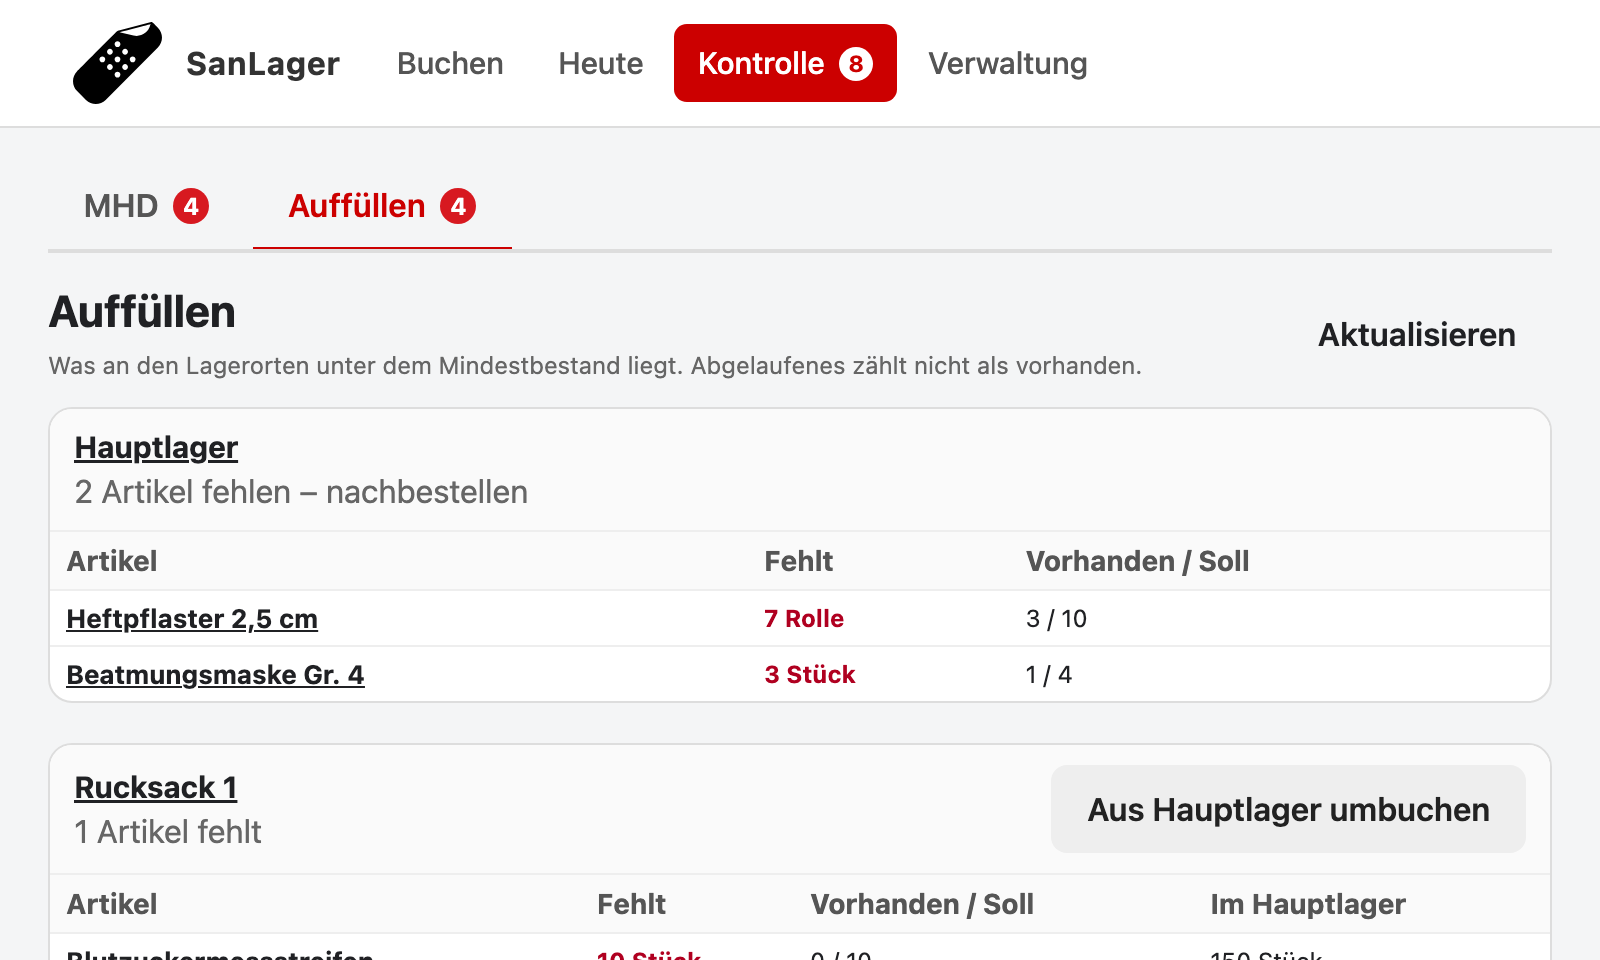
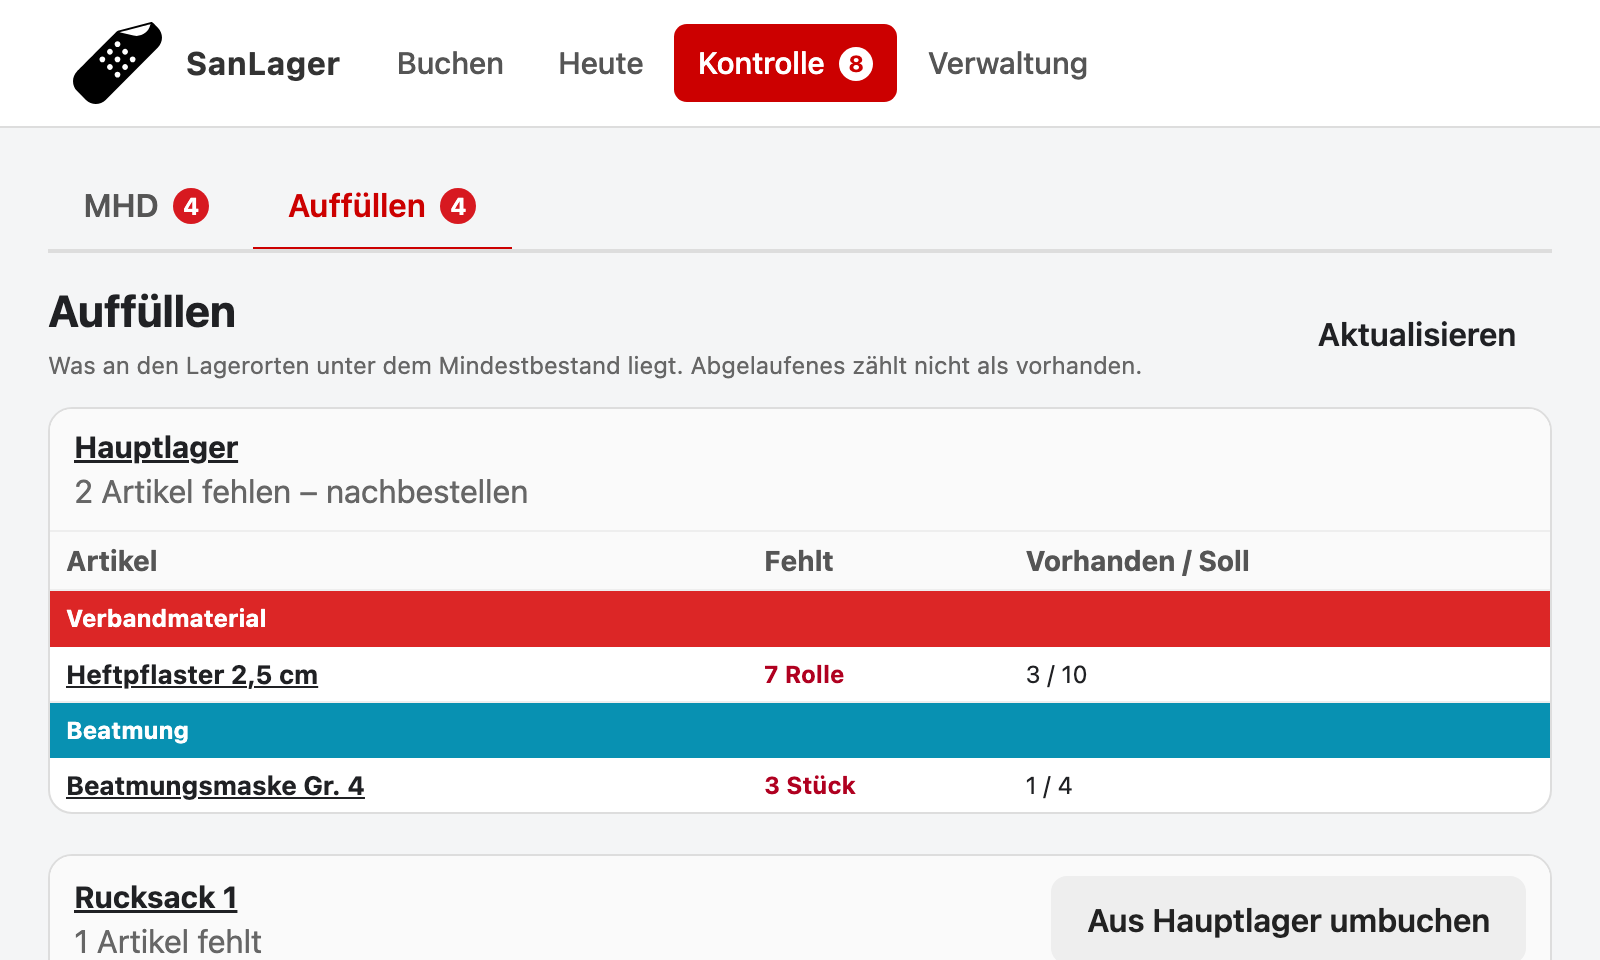
Auffüllliste mit Kategorie-Überschriften; Entsorgen-Meldung verweist auf „Heute“; README: ToDo-Liste aktualisiert, Einleitung korrigiert

diff --git a/templates/pages/restock.php b/templates/pages/restock.php
@@ -99,7 +99,34 @@
 
                             <tbody>
 
+                                <?php $currentCategory = null; ?>
+
                                 <?php foreach ($group['items'] as $row): ?>
+
+                                    <?php
+                                    /*
+                                     * Kategorie-Überschriften wie auf der Lagerort-Seite:
+                                     * So lässt sich ein Rucksack Fach für Fach packen.
+                                     */
+                                    $rowCategory = $row['category_name'] ?? '';
+                                    ?>
+
+                                    <?php if ($currentCategory !== $rowCategory): ?>
+
+                                        <?php $currentCategory = $rowCategory; ?>
+
+                                        <tr
+                                            class="article-category-row"
+                                            style="background-color: <?= h($row['category_color'] ?? '#64748b') ?>;"
+                                        >
+                                            <th colspan="<?= $group['is_default'] ? 4 : 5 ?>">
+                                                <span class="article-category-name">
+                                                    <?= h($row['category_name'] ?? 'Ohne Kategorie') ?>
+                                                </span>
+                                            </th>
+                                        </tr>
+
+                                    <?php endif; ?>
 
                                     <tr>
 

diff --git a/tests/PagesTest.php b/tests/PagesTest.php
@@ -269,6 +269,9 @@ class PagesTest extends TestCase
         // Rucksack 1: Umbuchen aus dem Hauptlager direkt vorbelegt.
         $this->assertStringContainsString('?page=issue&source=' . $main . '&target=' . $bag, $response['body']);
         $this->assertStringContainsString('Aus Hauptlager umbuchen', $response['body']);
+
+        // Kategorie-Überschriften: Heftpflaster (Verbandmaterial) fehlt im Hauptlager.
+        $this->assertMatchesRegularExpression('#article-category-row.*?<th colspan="4">\s*<span class="article-category-name">\s*Verbandmaterial#s', $response['body']);
     }
 
     public function testBookingShowsMessageOnceAndKeepsDirection(): void

diff --git a/tests/ActionsTest.php b/tests/ActionsTest.php
@@ -272,7 +272,7 @@ class ActionsTest extends TestCase
         ]);
 
         $this->assertSame('?page=location&id=' . $this->mainId, $result->redirectUrl);
-        $this->assertStringContainsString('2 Stück aus Hauptlager entsorgt', $result->message);
+        $this->assertStringContainsString('2 Stück aus Hauptlager entsorgt (rückgängig unter „Heute“)', $result->message);
         $this->assertSame(0, $this->stock->getStockAtLocation($this->articleId, $this->mainId, $expired));
 
         $this->expectException(RuntimeException::class);

diff --git a/src/StockActions.php b/src/StockActions.php
@@ -523,7 +523,7 @@ class StockActions
             $return,
             $article['name'] . ' – ' . $quantity . ' ' . $article['unit']
                 . ' aus ' . $location['name'] . ' entsorgt'
-                . ' (rückgängig unter „Heute ausgebucht“)'
+                . ' (rückgängig unter „Heute“)'
         );
     }
 }

diff --git a/src/StockReports.php b/src/StockReports.php
@@ -270,6 +270,7 @@ class StockReports
                 sl.id AS location_id,
                 sl.name AS location_name,
                 c.name AS category_name,
+                c.color AS category_color,
                 alm.minimum_stock,
                 COALESCE(SUM(
                     CASE

diff --git a/README.md b/README.md
@@ -4,14 +4,15 @@
 
 ## Digitale Lagerverwaltung für Sanitätsmaterial
 
-**SanLager** ist eine schlanke Webanwendung zur Verwaltung von Sanitätsmaterial z.B. bei einer Hiorg.
+**SanLager** ist eine schlanke Webanwendung zur Verwaltung von Sanitätsmaterial, z. B. bei einer HiOrg.
 
 Die Anwendung wurde speziell für den praktischen Einsatz im Sanitätslager entwickelt. Im Mittelpunkt stehen eine **einfache Bedienung**, eine **schnelle Bestandsübersicht** und die **Verwaltung von Mindesthaltbarkeitsdaten**.
 
-Das System soll jederzeit einen schnellen Überblick über den aktuellen Bestand ermöglichen. Hierzu wird das Material in Kisten gelagert die entsprechent mit einem QR-Code-Etikett das in der App erzeugt werden kann beschriftet.
+Das System soll jederzeit einen schnellen Überblick über den aktuellen Bestand ermöglichen. Hierzu wird das Material in Kisten gelagert, die mit einem QR-Code-Etikett beschriftet sind. Das Etikett lässt sich in der App erzeugen.
+
 ![SanLager Schema](images/schema_lager.png)
 
-Es gibt eine an 800x480px angepasste Ansicht für den Raspberry Pi Touchscreen.
+Es gibt eine an 800×480 px angepasste Ansicht für den Raspberry-Pi-Touchscreen.
 
 ---
 
@@ -41,9 +42,7 @@ Es gibt eine an 800x480px angepasste Ansicht für den Raspberry Pi Touchscreen.
 
 * Unterstützung Labelprinter
 * Test mit QR-Code-Scanner
-* Ausbuchen mit Anzahl >1
-* Einbuchen via Scan & Anzahl
-* Weitere Umsetzung der Lagerorte (Artikel pro Lagerort, ablaufende MHD pro Lagerort, etc.)
+* Buchen mit Anzahl > 1 (Aus-, Um- und Einbuchen per Scan)
 * Inventurfunktion
 
 ---
